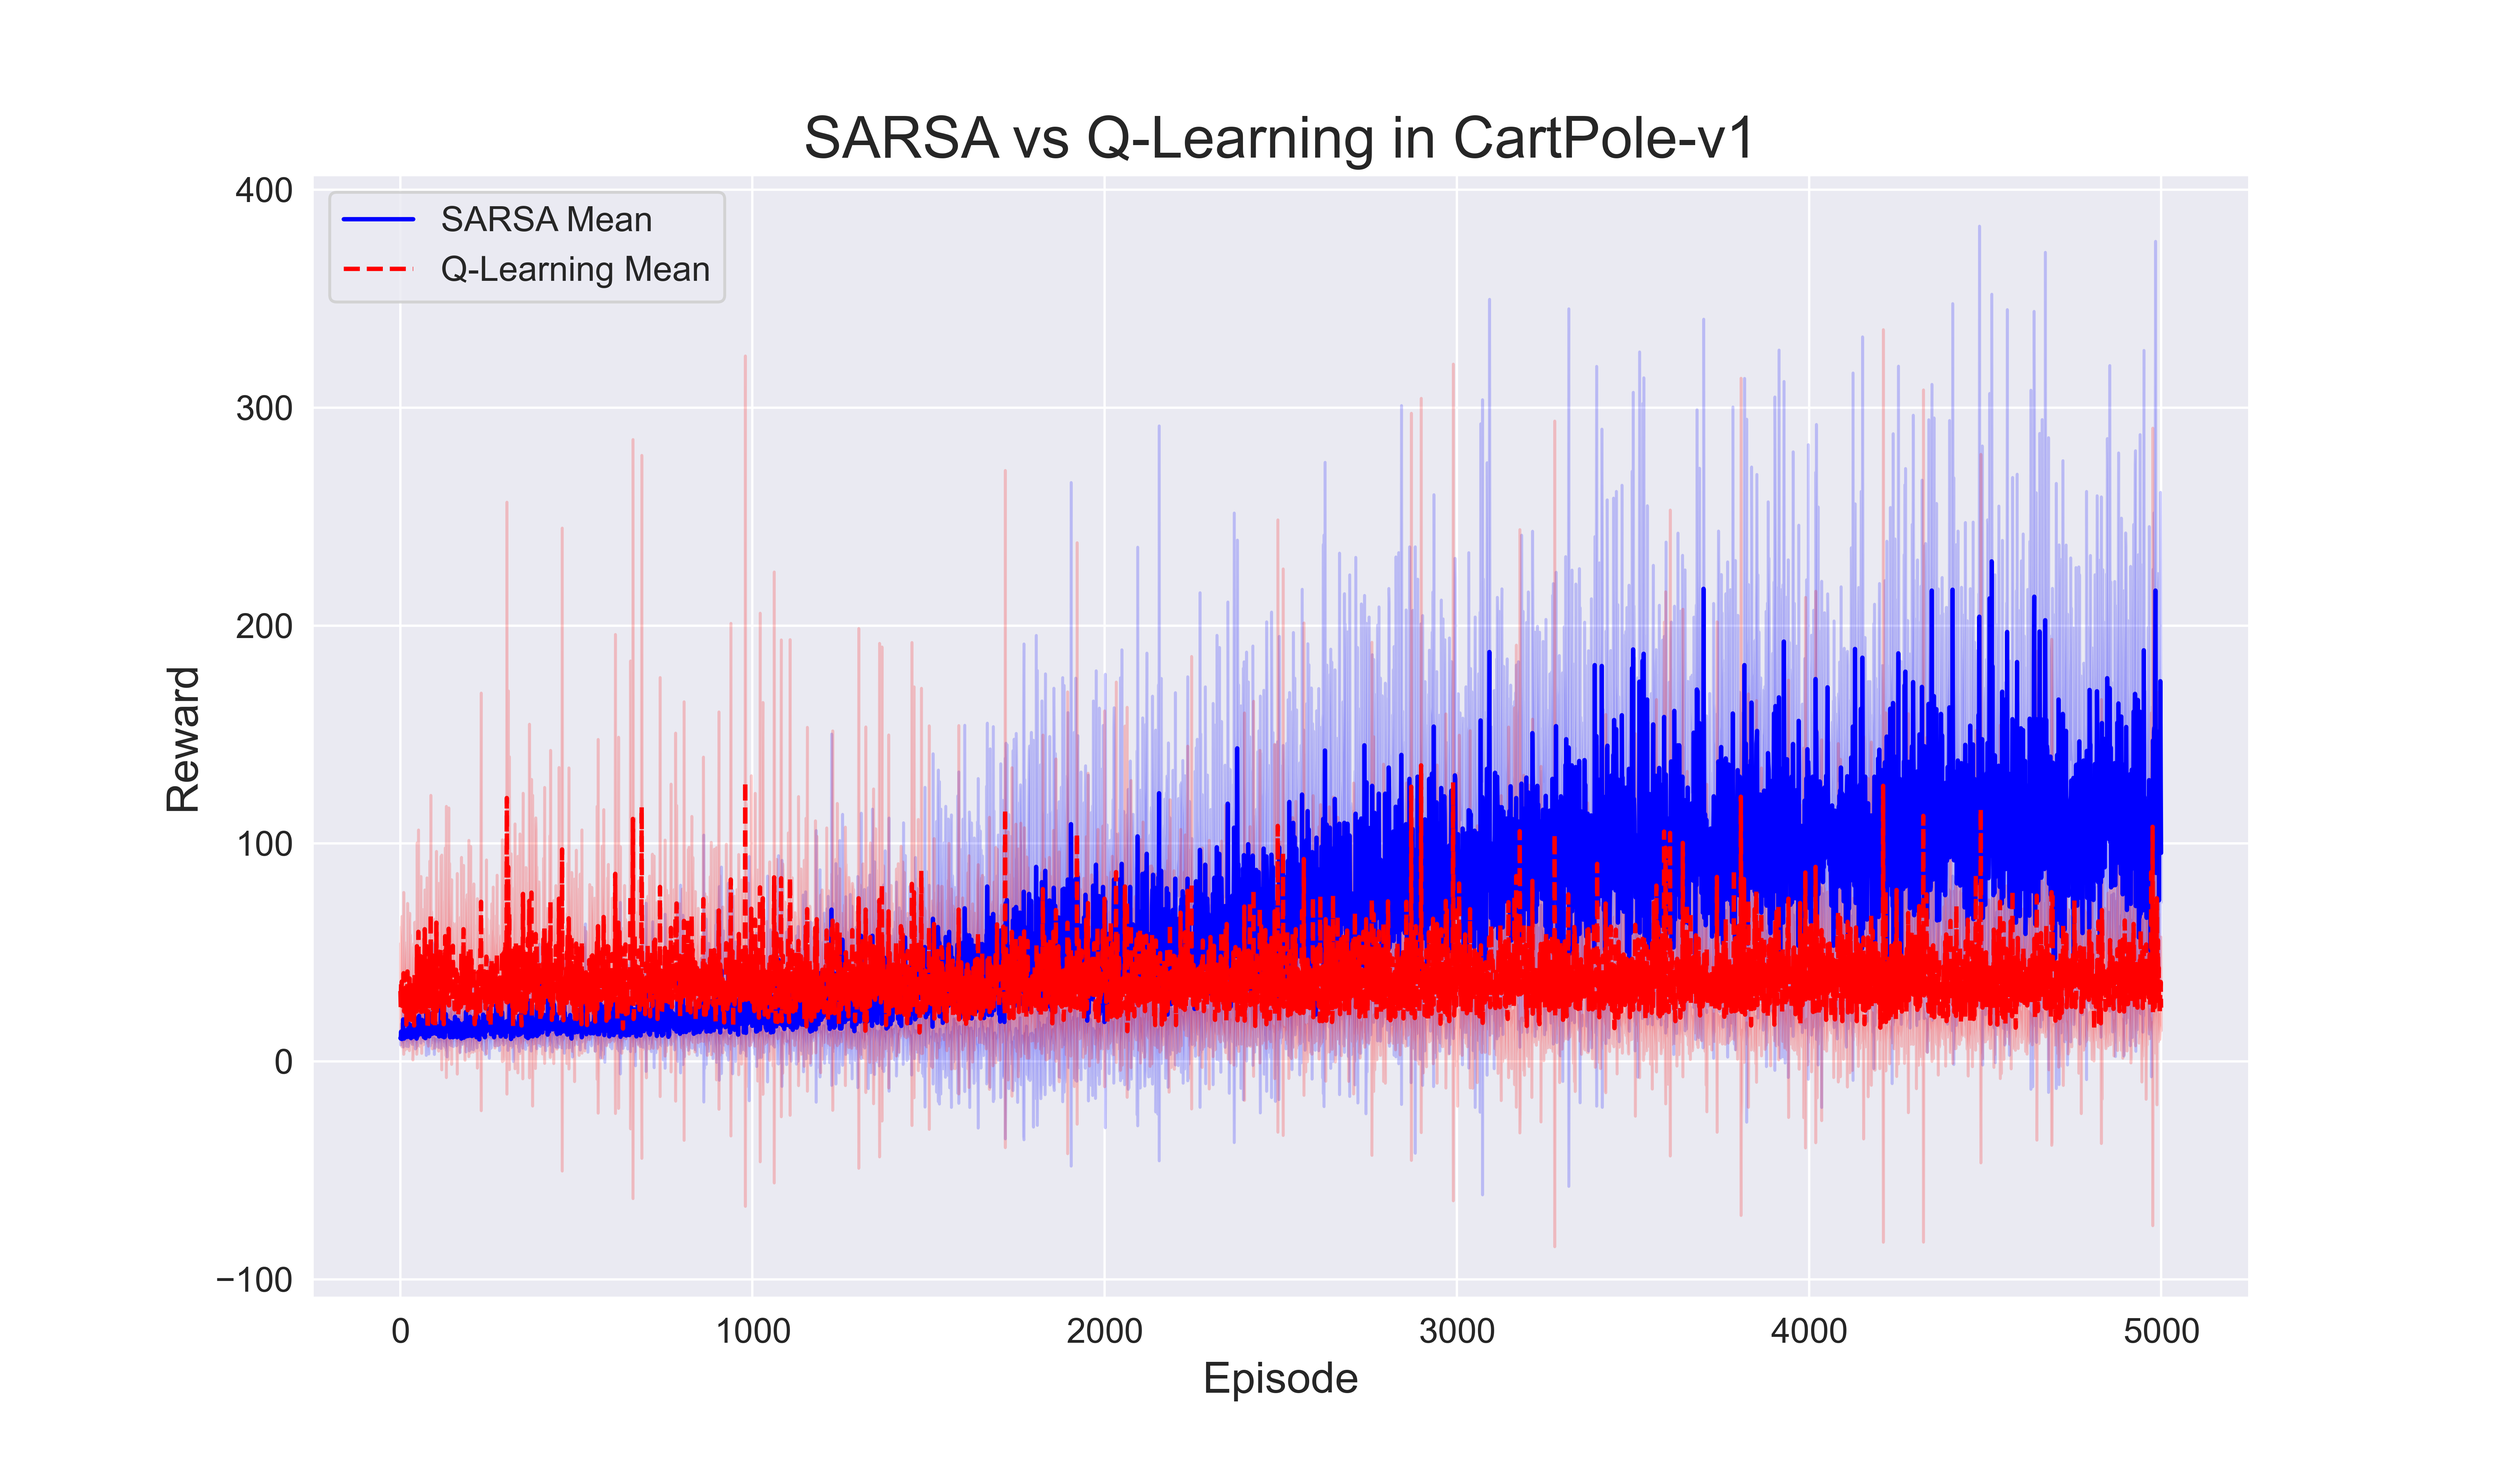
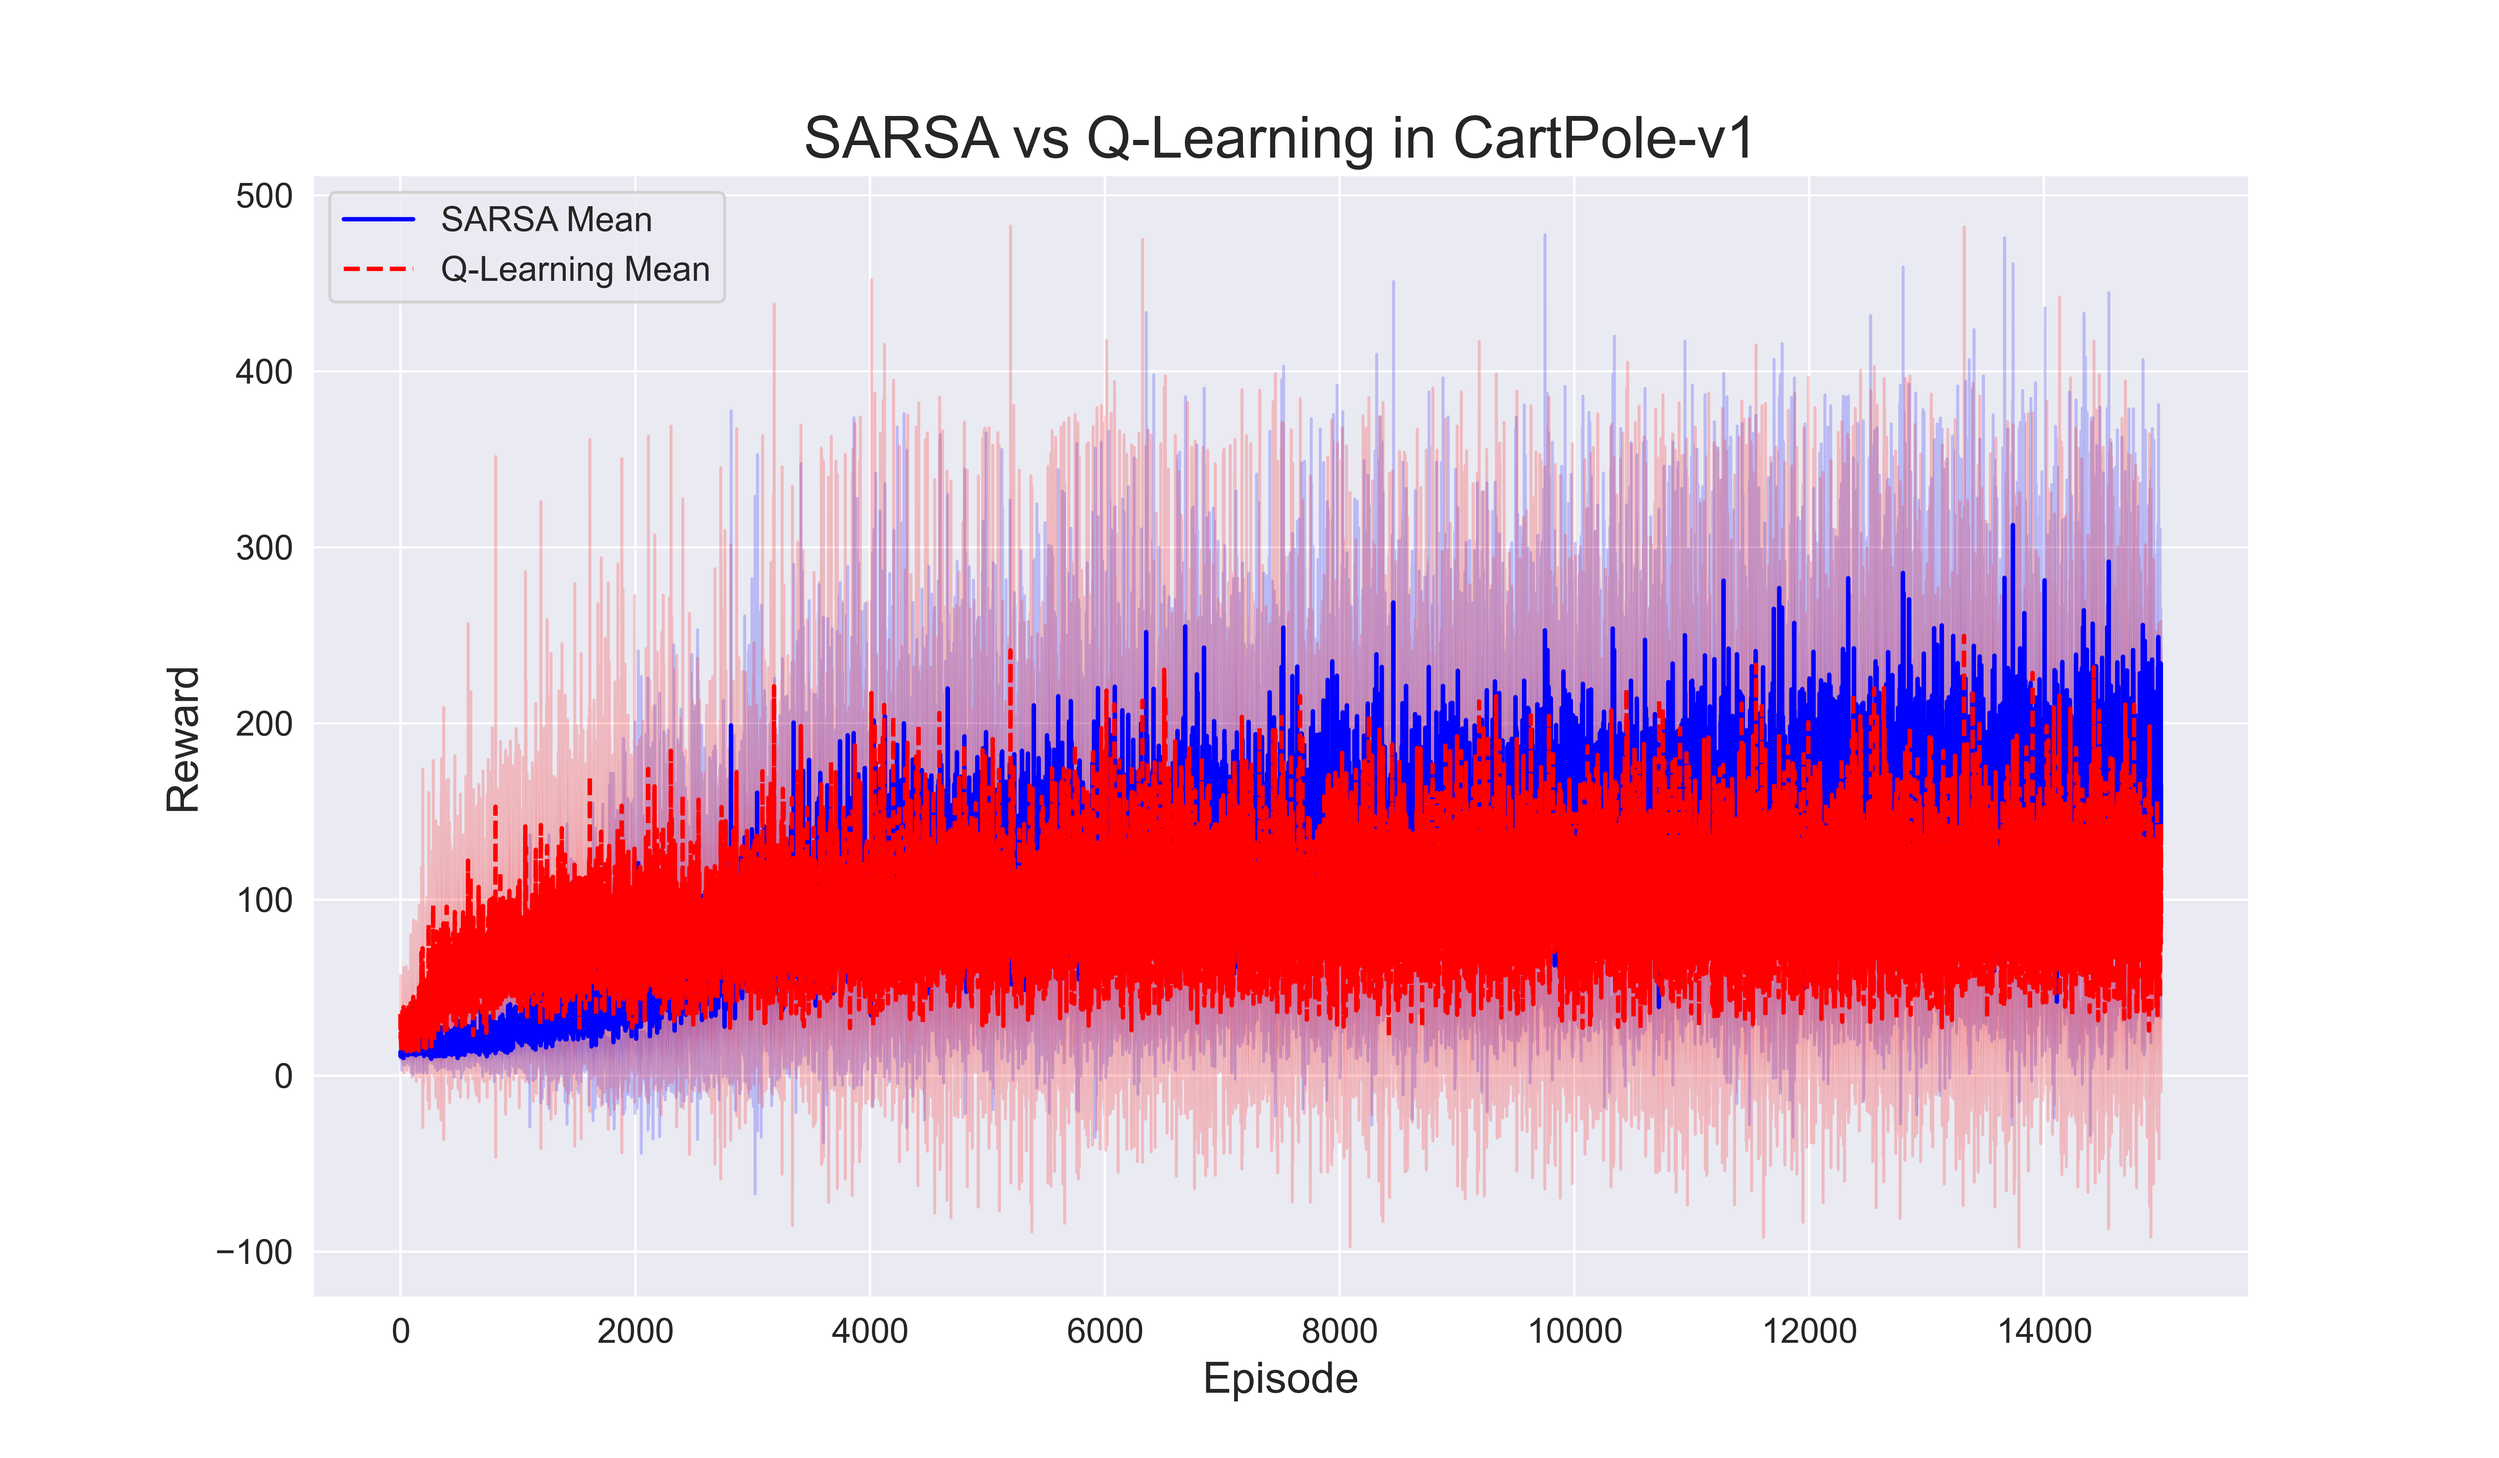
15k episodes and 2.5k grid search. Cartpole good results

diff --git a/src/experiments/run_experiments.py b/src/experiments/run_experiments.py
@@ -96,20 +96,20 @@ def run_complete_experiment(env_name, discount_factor=0.99, max_steps=1000):
     
     # Define hyperparameter search grids
     sarsa_param_grid = {
-        'learning_rate': [0.01, 0.05, 0.1, 0.2],
+        'learning_rate': [0.01, 0.1, 0.2],
         'discount_factor': [discount_factor],
-        'epsilon': [0.01, 0.05, 0.1, 0.2, 0.3]
+        'epsilon': [0.01, 0.1, 0.2]
     }
     
     qlearning_param_grid = {
-        'learning_rate': [0.01, 0.05, 0.1, 0.2],
+        'learning_rate': [0.01, 0.1, 0.2],
         'discount_factor': [discount_factor],
-        'temperature': [0.1, 0.5, 1.0, 2.0, 5.0]
+        'temperature': [0.1, 1.0, 5.0]
     }
     
     # Number of episodes for grid search and final training
-    grid_search_episodes = 500
-    final_training_episodes = 5000
+    grid_search_episodes = 2500
+    final_training_episodes = 15000
     
     print(f"Starting grid search for SARSA on {env_name}...")
     sarsa_results = grid_search(env_name, SARSAAgent, sarsa_param_grid, grid_search_episodes, max_steps, seeds, bins=bins, low=low, high=high)
